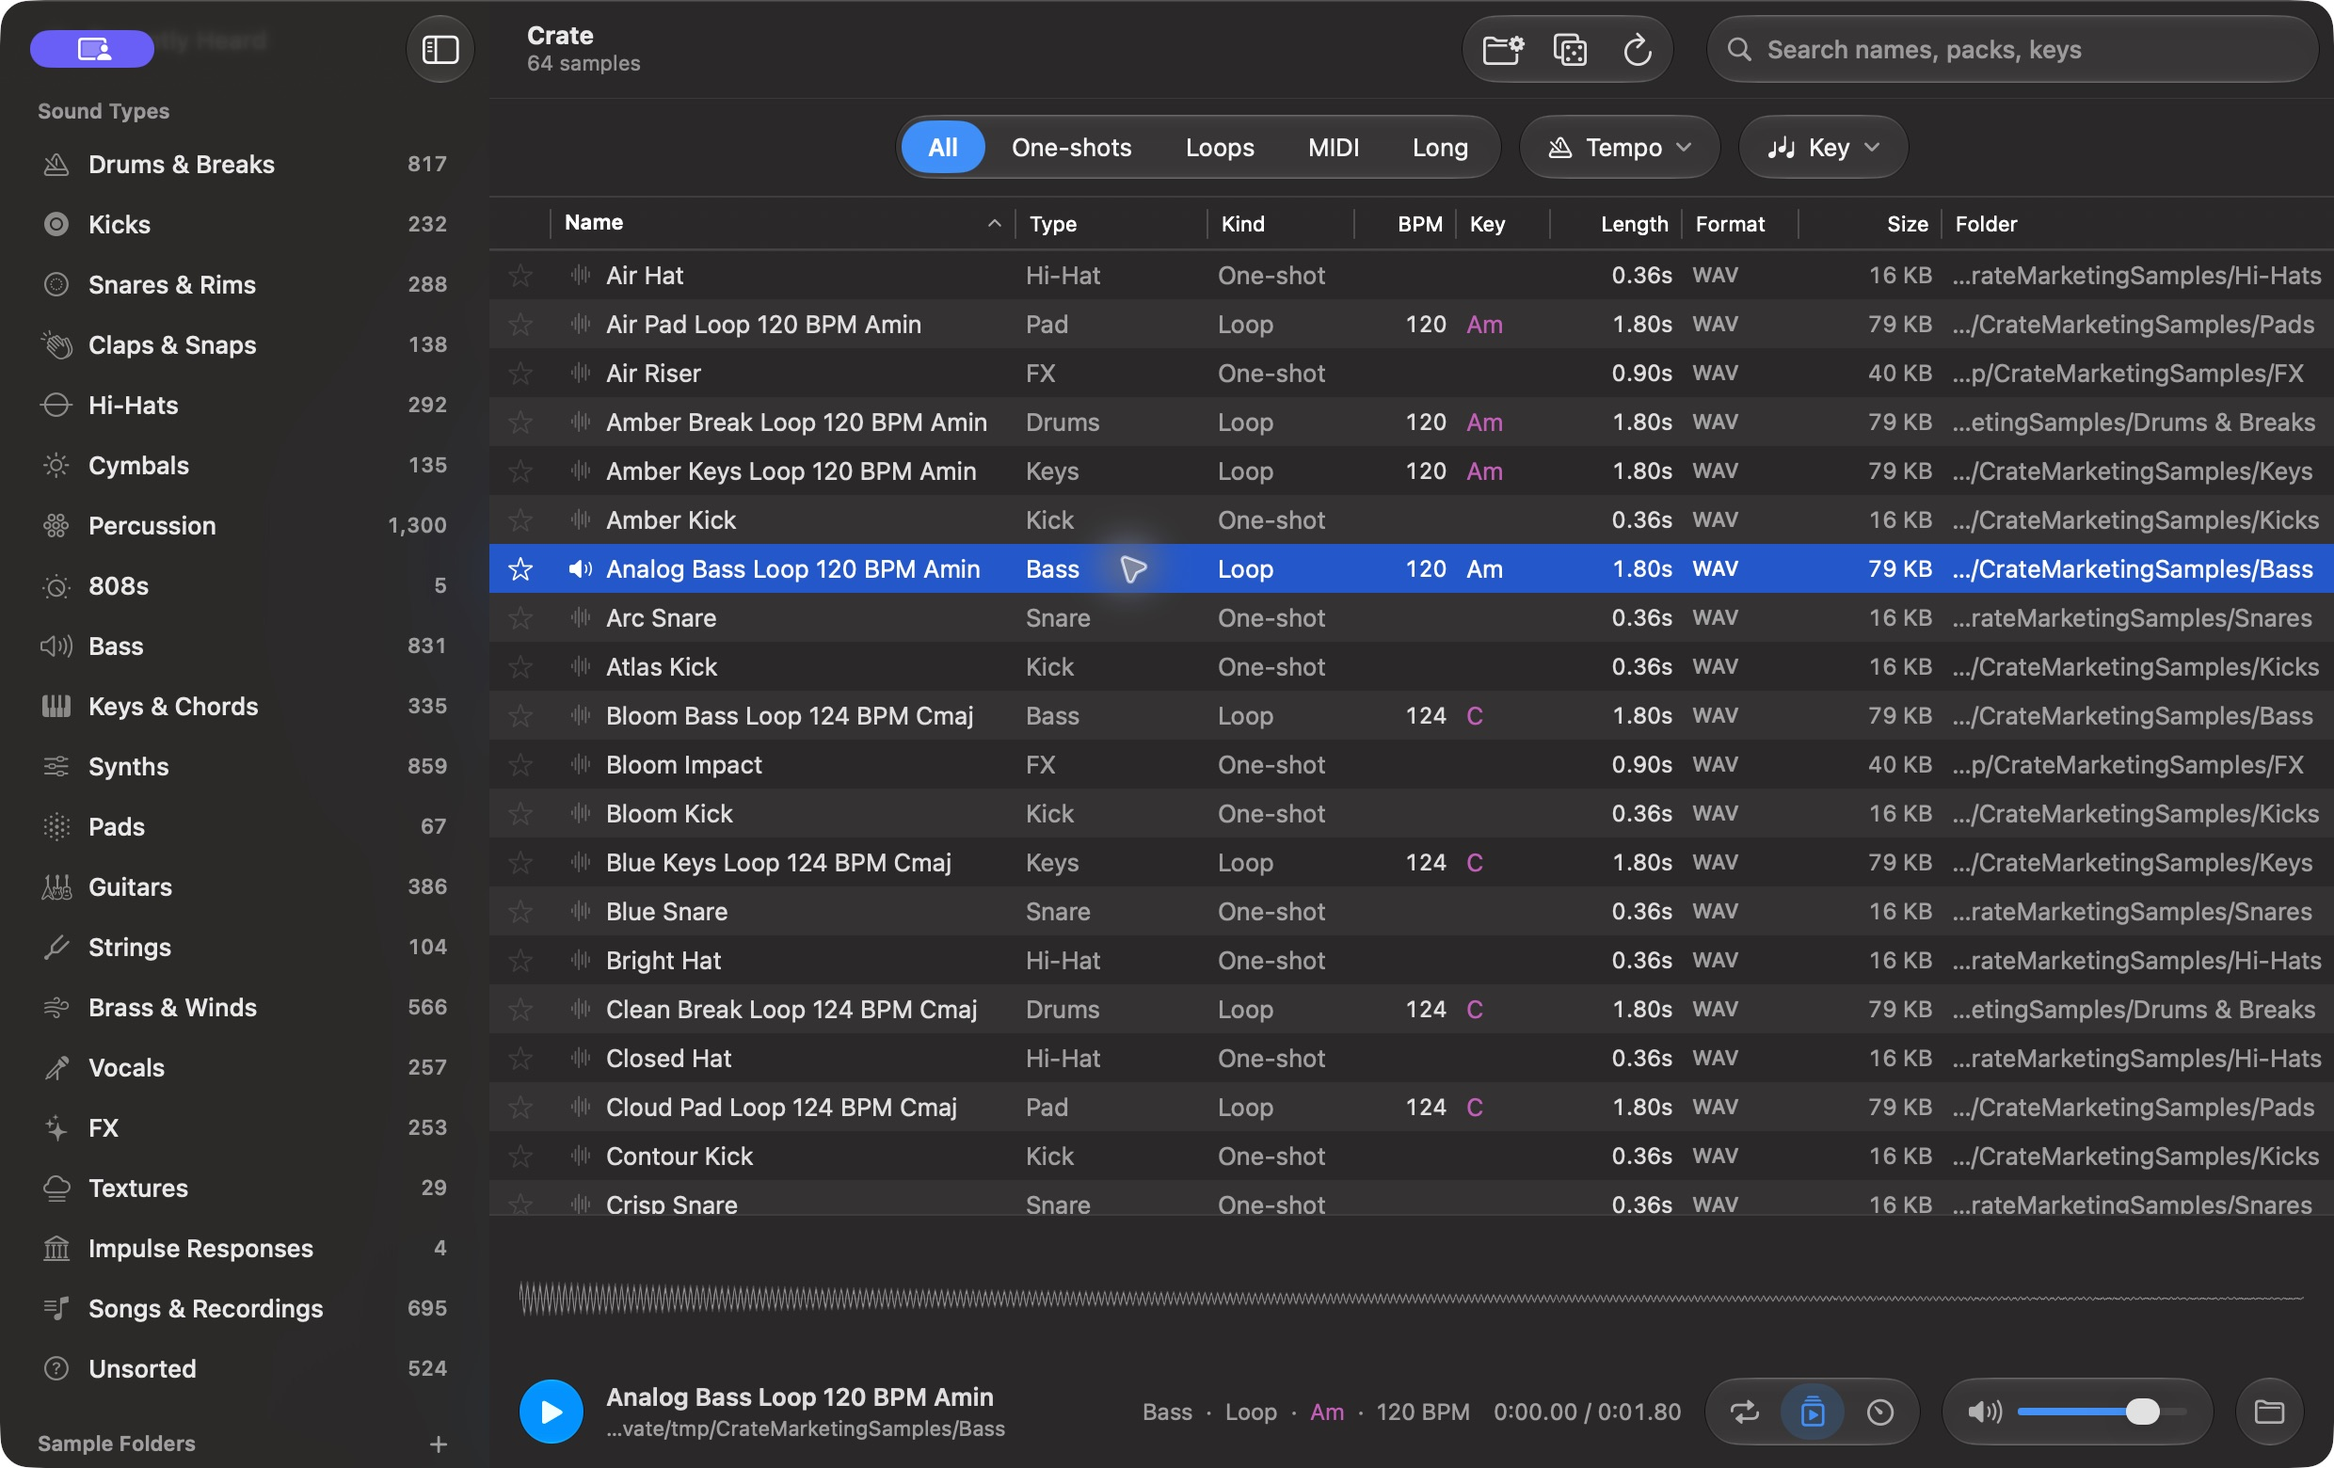
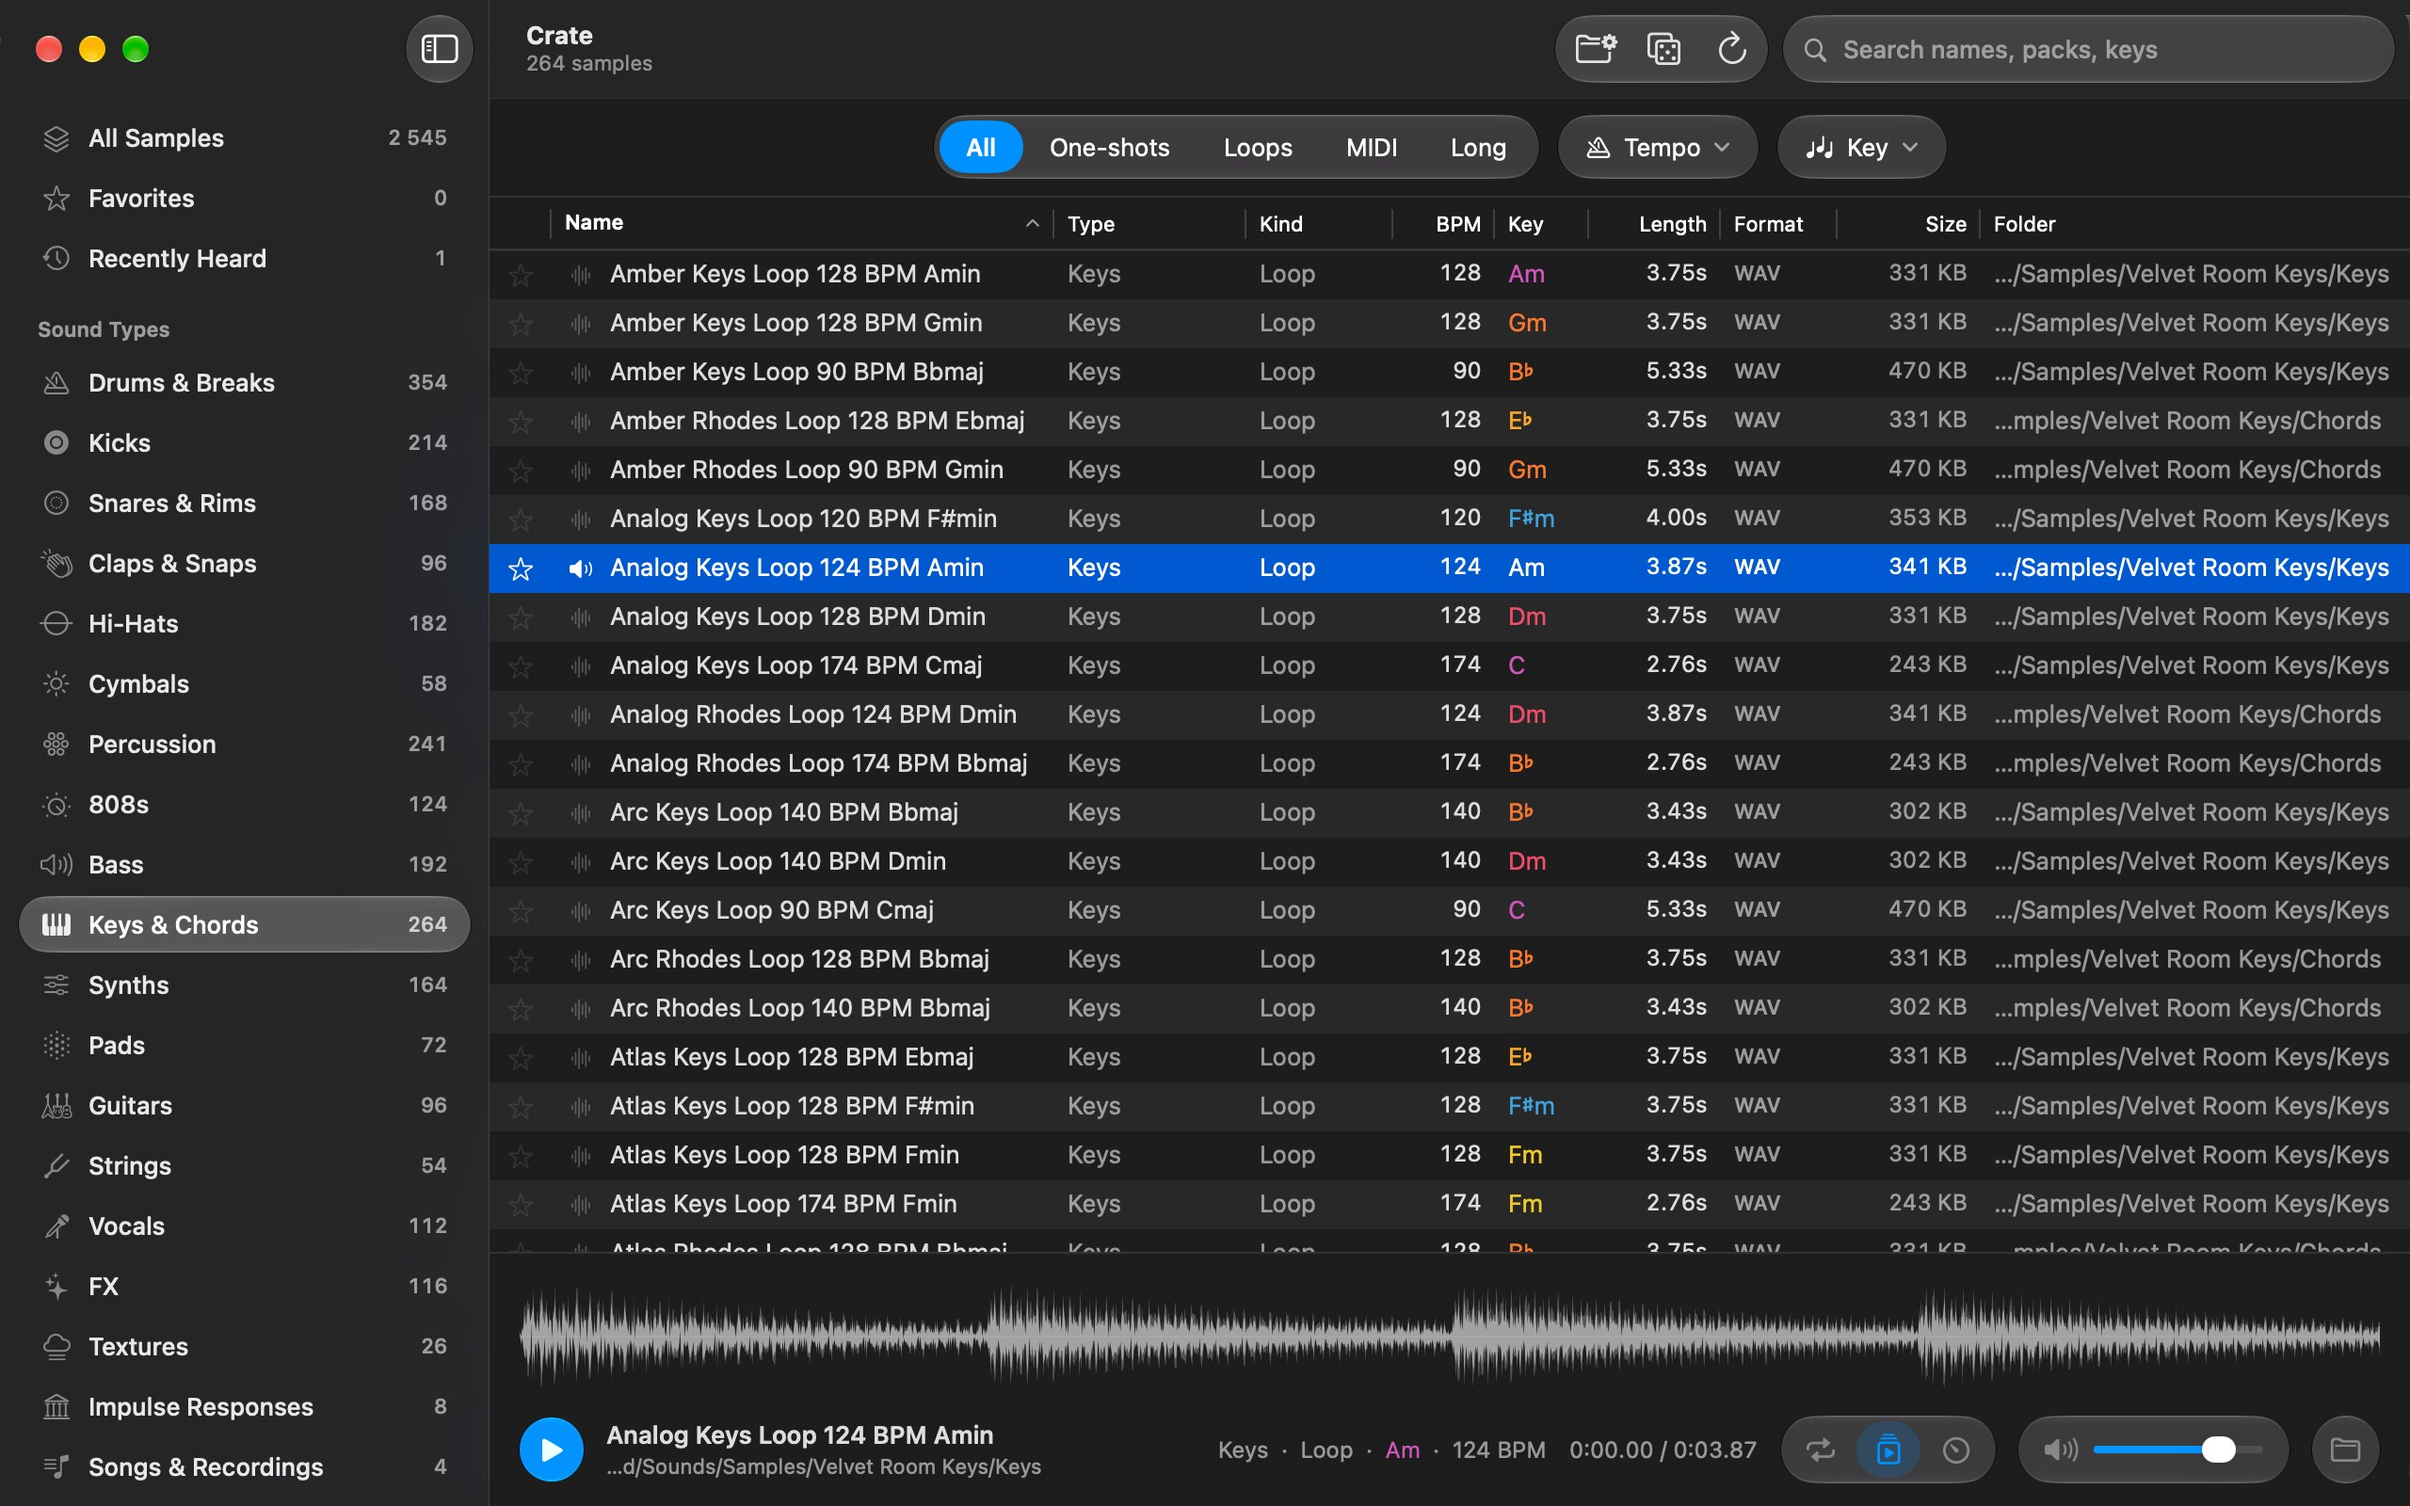
Show Crate 1.1 and its new setup choices
Replace the app preview with a 1.1 capture and describe This Mac and
Specific folders instead of Everywhere on Support and Privacy.

diff --git a/privacy.html b/privacy.html
@@ -1,1 +1,1 @@
-<!doctype html><html lang="en"><head><meta charset="utf-8"><meta name="viewport" content="width=device-width, initial-scale=1"><title>Crate Privacy Policy · CPL OF MNGS</title><link rel="icon" href="icon.png"><link rel="stylesheet" href="style.css"></head><body><div class="wrap"><header class="top"><a class="brand" href="./"><img src="icon.png" alt="">CRATE</a><nav class="nav"><a href="support.html">Support</a><a href="privacy.html">Privacy</a></nav></header><main class="page"><div class="eyebrow">Effective October 8, 2026 · CPL OF MNGS</div><h1>Privacy Policy</h1><p>Crate is a macOS app for browsing and auditioning audio files you choose to make available on your Mac.</p><h2>Your library stays on your Mac</h2><p>Crate reads the folders you select, or the locations you grant access to when choosing Everywhere. It stores an index, audio analysis results, favorites, listening history and preferences locally on your Mac so search and playback work quickly. Crate does not modify your sample files or write metadata into sample folders. Cloud-only files are not downloaded by Crate.</p><h2>No account or tracking</h2><p>Crate does not require an account and does not collect or transmit your audio, filenames, library index, listening history or personal information to CPL OF MNGS. There are no third-party analytics, advertising SDKs or tracking in the app.</p><h2>Your choices</h2><p>You can remove a folder from Crate in the app. You can remove Crate's local data in <code>~/Library/Application Support/Crate</code> and its settings from macOS. Removing the app does not remove your original audio files.</p><h2>Support requests</h2><p>If you contact us for support, the information you choose to send will be used to answer your request. Do not share audio files or private sample names in a public issue.</p><p><a href="support.html">Contact support</a> with privacy questions.</p></main><footer class="foot"><span>© 2026 CPL OF MNGS</span><span><a href="./">Crate</a> · <a href="support.html">Support</a></span></footer></div></body></html>
+<!doctype html><html lang="en"><head><meta charset="utf-8"><meta name="viewport" content="width=device-width, initial-scale=1"><title>Crate Privacy Policy · CPL OF MNGS</title><link rel="icon" href="icon.png"><link rel="stylesheet" href="style.css"></head><body><div class="wrap"><header class="top"><a class="brand" href="./"><img src="icon.png" alt="">CRATE</a><nav class="nav"><a href="support.html">Support</a><a href="privacy.html">Privacy</a></nav></header><main class="page"><div class="eyebrow">Effective October 8, 2026 · CPL OF MNGS</div><h1>Privacy Policy</h1><p>Crate is a macOS app for browsing and auditioning audio files you choose to make available on your Mac.</p><h2>Your library stays on your Mac</h2><p>Crate reads the folders you select, or the locations you grant access to when choosing This Mac. It stores an index, audio analysis results, favorites, listening history and preferences locally on your Mac so search and playback work quickly. Crate does not modify your sample files or write metadata into sample folders. Cloud-only files are not downloaded by Crate.</p><h2>No account or tracking</h2><p>Crate does not require an account and does not collect or transmit your audio, filenames, library index, listening history or personal information to CPL OF MNGS. There are no third-party analytics, advertising SDKs or tracking in the app.</p><h2>Your choices</h2><p>You can remove a folder from Crate in the app. You can remove Crate's local data in <code>~/Library/Application Support/Crate</code> and its settings from macOS. Removing the app does not remove your original audio files.</p><h2>Support requests</h2><p>If you contact us for support, the information you choose to send will be used to answer your request. Do not share audio files or private sample names in a public issue.</p><p><a href="support.html">Contact support</a> with privacy questions.</p></main><footer class="foot"><span>© 2026 CPL OF MNGS</span><span><a href="./">Crate</a> · <a href="support.html">Support</a></span></footer></div></body></html>

diff --git a/support.html b/support.html
@@ -1,1 +1,1 @@
-<!doctype html><html lang="en"><head><meta charset="utf-8"><meta name="viewport" content="width=device-width, initial-scale=1"><title>Crate Support · CPL OF MNGS</title><link rel="icon" href="icon.png"><link rel="stylesheet" href="style.css"></head><body><div class="wrap"><header class="top"><a class="brand" href="./"><img src="icon.png" alt="">CRATE</a><nav class="nav"><a href="support.html">Support</a><a href="privacy.html">Privacy</a></nav></header><main class="page"><div class="eyebrow">Help</div><h1>Support</h1><p class="lead">Crate is a native macOS sample browser. We can help with library access, indexing, auditioning and getting sounds into your DAW.</p><h2>Get started</h2><p>On first launch, choose <strong>Everywhere</strong> and select your startup disk in the macOS picker, or choose individual folders. Change this later in <strong>Library Sources</strong>. Protected folders and external drives may need separate access.</p><h2>Contact us</h2><p>Open a support issue with your macOS version, Crate version, what you expected, and what happened. Please avoid posting private sample names or audio. The issue tracker is public.</p><div class="cta"><a class="button" href="https://github.com/MohamedFekryyy/crate-support/issues/new">Open a support issue</a></div><h2>What Crate stores</h2><p>Crate keeps its index and preferences on your Mac. It does not change your sample files. Read our <a href="privacy.html">privacy policy</a> for details.</p></main><footer class="foot"><span>© 2026 CPL OF MNGS</span><span><a href="./">Crate</a> · <a href="privacy.html">Privacy Policy</a></span></footer></div></body></html>
+<!doctype html><html lang="en"><head><meta charset="utf-8"><meta name="viewport" content="width=device-width, initial-scale=1"><title>Crate Support · CPL OF MNGS</title><link rel="icon" href="icon.png"><link rel="stylesheet" href="style.css"></head><body><div class="wrap"><header class="top"><a class="brand" href="./"><img src="icon.png" alt="">CRATE</a><nav class="nav"><a href="support.html">Support</a><a href="privacy.html">Privacy</a></nav></header><main class="page"><div class="eyebrow">Help</div><h1>Support</h1><p class="lead">Crate is a native macOS sample browser. We can help with library access, indexing, auditioning and getting sounds into your DAW.</p><h2>Get started</h2><p>On first launch, choose <strong>This Mac</strong>, click <strong>Allow Access</strong> and select your startup disk in the macOS picker. Or choose <strong>Specific folders</strong> and pick only the folders you want. Change this later in <strong>File › Library Sources</strong>. Protected folders and external drives may need separate access.</p><h2>Contact us</h2><p>Open a support issue with your macOS version, Crate version, what you expected, and what happened. Please avoid posting private sample names or audio. The issue tracker is public.</p><div class="cta"><a class="button" href="https://github.com/MohamedFekryyy/crate-support/issues/new">Open a support issue</a></div><h2>What Crate stores</h2><p>Crate keeps its index and preferences on your Mac. It does not change your sample files. Read our <a href="privacy.html">privacy policy</a> for details.</p></main><footer class="foot"><span>© 2026 CPL OF MNGS</span><span><a href="./">Crate</a> · <a href="privacy.html">Privacy Policy</a></span></footer></div></body></html>
